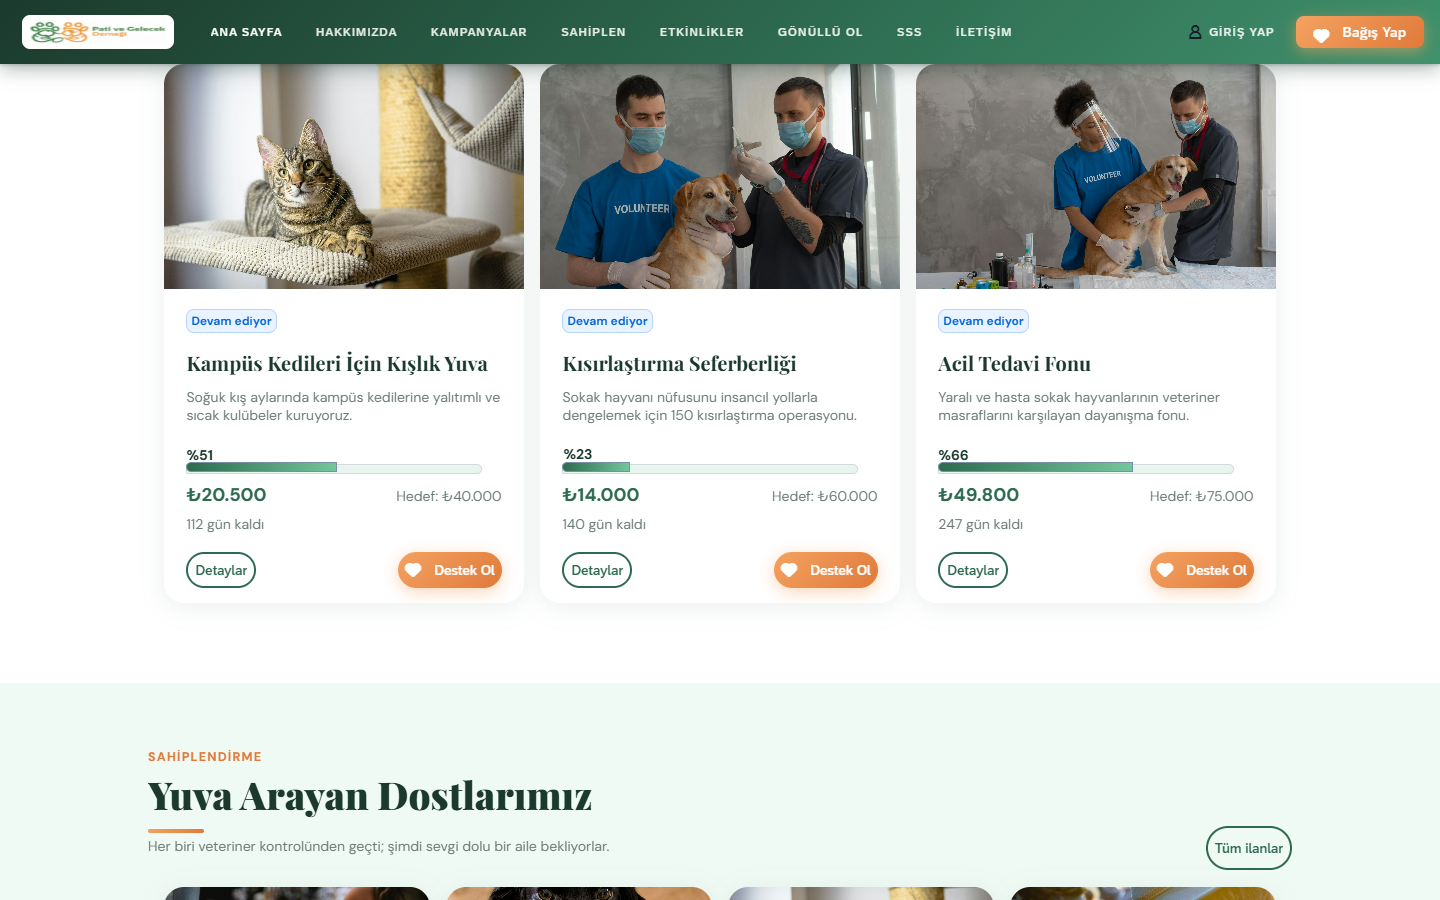
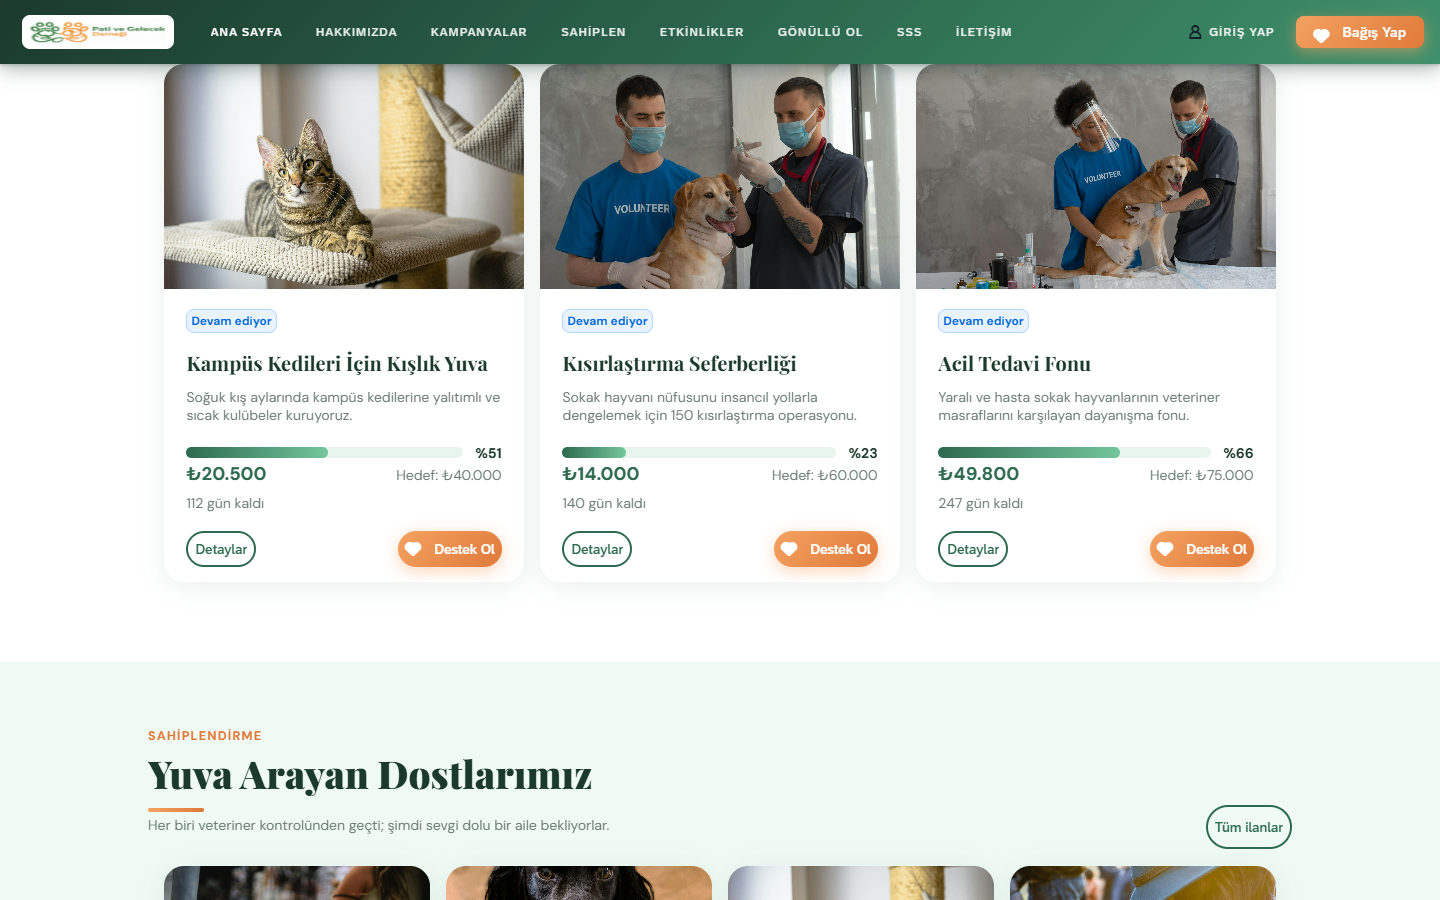
Faz 3a: özel kontrol ProgressMeter
- control/ProgressMeter.js: metadata, renderer (apiVersion 2), animasyon,
  ARIA progressbar, dile göre yüzde metni
- Kampanya kartı/detayı ve etkinlik doluluğunda ProgressIndicator yerine;
  tema iç sınıflarını ezen CSS kaldırıldı, kullanılmayan percent formatter'ları silindi
- Birim testleri (QUnit 29), dokümanlar ve ekran görüntüleri

diff --git a/app/site/webapp/control/ProgressMeter.js b/app/site/webapp/control/ProgressMeter.js
@@ -1,0 +1,128 @@
+sap.ui.define([
+    "sap/ui/core/Control",
+    "sap/ui/core/library",
+    "sap/ui/core/format/NumberFormat"
+], function (Control, coreLibrary, NumberFormat) {
+    "use strict";
+
+    var ValueState = coreLibrary.ValueState;
+
+    /**
+     * ProgressMeter — projenin kendi (custom) kontrolü.
+     *
+     * Bir değerin bir üst sınıra oranını yuvarlak uçlu, marka renklerinde bir çubukla gösterir
+     * (kampanyada toplanan / hedef, etkinlikte kayıtlı / kontenjan).
+     *
+     * Öğrenme noktaları:
+     *  - metadata: özellikler (property) ve tipleri; XML'de <pg:ProgressMeter value="..."/> diye kullanılır
+     *  - renderer (apiVersion 2): HTML'i RenderManager ile yazmak; UI5 yalnızca değişen kısmı günceller
+     *  - yaşam döngüsü: onBeforeRendering / onAfterRendering ile animasyon
+     *  - erişilebilirlik: role="progressbar" ve aria-value* öznitelikleri
+     *  - yerelleştirme: yüzde metni NumberFormat ile dile göre ("%54" / "54%")
+     *
+     * Hazır sap.m.ProgressIndicator yerine bunu yazmamızın nedeni: tema iç sınıflarını
+     * (.sapMPIBar...) CSS ile ezmek kırılgandır; kendi kontrolümüzde HTML ve sınıflar bize aittir.
+     */
+    var ProgressMeter = Control.extend("pg.site.control.ProgressMeter", {
+        metadata: {
+            properties: {
+                /** Şu anki değer (ör. toplanan tutar) */
+                value: { type: "float", defaultValue: 0 },
+                /** Üst sınır (ör. hedef tutar). 0 ya da boşsa yüzde 0 kabul edilir. */
+                max: { type: "float", defaultValue: 100 },
+                /** Çubuğun yanında gösterilecek metin; boşsa yüzde yazılır. */
+                valueText: { type: "string", defaultValue: "" },
+                /** Ekran okuyucu için açıklama (ör. "Kampanya ilerlemesi") */
+                label: { type: "string", defaultValue: "" },
+                /** Renk: None = marka yeşili, Warning = turuncu, Error = kırmızı, Success = koyu yeşil */
+                state: { type: "sap.ui.core.ValueState", defaultValue: ValueState.None },
+                /** Metin gösterilsin mi? */
+                showText: { type: "boolean", defaultValue: true }
+            }
+        },
+
+        renderer: {
+            apiVersion: 2,
+
+            /**
+             * @param {sap.ui.core.RenderManager} oRm HTML yazıcısı
+             * @param {pg.site.control.ProgressMeter} oControl çizilecek kontrol
+             */
+            render: function (oRm, oControl) {
+                var fPercent = oControl.getPercent();
+                var sState = oControl.getState();
+
+                oRm.openStart("div", oControl);
+                oRm.class("pgMeter");
+                if (sState !== ValueState.None) {
+                    oRm.class("pgMeter" + sState);
+                }
+                oRm.attr("role", "progressbar");
+                oRm.attr("aria-valuemin", "0");
+                oRm.attr("aria-valuemax", "100");
+                oRm.attr("aria-valuenow", String(Math.round(fPercent)));
+                oRm.attr("aria-valuetext", oControl.getDisplayText());
+                if (oControl.getLabel()) {
+                    oRm.attr("aria-label", oControl.getLabel());
+                }
+                oRm.openEnd();
+
+                oRm.openStart("div").class("pgMeterTrack").openEnd();
+                // Önce eski genişlikle çizilir; onAfterRendering yeni genişliğe kaydırır (CSS transition)
+                oRm.openStart("div", oControl.getId() + "-fill")
+                    .class("pgMeterFill")
+                    .style("width", oControl._fRenderedPercent + "%")
+                    .openEnd()
+                    .close("div");
+                oRm.close("div");
+
+                if (oControl.getShowText()) {
+                    oRm.openStart("span").class("pgMeterText").openEnd();
+                    oRm.text(oControl.getDisplayText());
+                    oRm.close("span");
+                }
+
+                oRm.close("div");
+            }
+        },
+
+        init: function () {
+            // Animasyon ilk açılışta 0'dan başlar, sonraki değişikliklerde önceki değerden
+            this._fRenderedPercent = 0;
+        },
+
+        onAfterRendering: function () {
+            var oFill = this.getDomRef("fill");
+            var fPercent = this.getPercent();
+            if (!oFill) {
+                return;
+            }
+            // Bir sonraki karede genişliği değiştir ki tarayıcı geçişi (transition) oynatsın
+            window.requestAnimationFrame(function () {
+                oFill.style.width = fPercent + "%";
+            });
+            this._fRenderedPercent = fPercent;
+        },
+
+        /** @returns {number} 0–100 arasında yüzde */
+        getPercent: function () {
+            var fMax = this.getMax();
+            if (!(fMax > 0)) {
+                return 0;
+            }
+            return Math.max(0, Math.min(100, this.getValue() / fMax * 100));
+        },
+
+        /** @returns {string} valueText ya da dile göre biçimlenmiş yüzde */
+        getDisplayText: function () {
+            return this.getValueText() || ProgressMeter.formatPercent(this.getPercent());
+        }
+    });
+
+    /** "%54" (tr) / "54%" (en) — NumberFormat oranı (0.54) bekler */
+    ProgressMeter.formatPercent = function (fPercent) {
+        return NumberFormat.getPercentInstance({ maxFractionDigits: 0 }).format(Math.round(fPercent) / 100);
+    };
+
+    return ProgressMeter;
+});

diff --git a/app/site/webapp/test/unit/control/ProgressMeter.js b/app/site/webapp/test/unit/control/ProgressMeter.js
@@ -1,0 +1,61 @@
+sap.ui.define([
+    "pg/site/control/ProgressMeter",
+    "sap/ui/qunit/utils/nextUIUpdate"
+], function (ProgressMeter, nextUIUpdate) {
+    "use strict";
+
+    var oMeter;
+
+    QUnit.module("ProgressMeter (özel kontrol)", {
+        afterEach: function () {
+            if (oMeter) {
+                oMeter.destroy();
+                oMeter = null;
+            }
+        }
+    });
+
+    QUnit.test("getPercent: oran 0–100 aralığına sıkıştırılır", function (assert) {
+        oMeter = new ProgressMeter({ value: 20250, max: 40000 });
+        assert.strictEqual(Math.round(oMeter.getPercent()), 51);
+        oMeter.setValue(50000);
+        assert.strictEqual(oMeter.getPercent(), 100, "hedef aşılsa da en fazla 100");
+        oMeter.setMax(0);
+        assert.strictEqual(oMeter.getPercent(), 0, "üst sınır 0 ise 0 (sıfıra bölme yok)");
+    });
+
+    QUnit.test("getDisplayText: valueText yoksa dile göre yüzde (Türkçe: %25)", function (assert) {
+        oMeter = new ProgressMeter({ value: 1, max: 4 });
+        assert.strictEqual(oMeter.getDisplayText(), "%25");
+        oMeter.setValueText("3 / 60 kişi");
+        assert.strictEqual(oMeter.getDisplayText(), "3 / 60 kişi");
+    });
+
+    QUnit.test("render: erişilebilirlik öznitelikleri ve renk sınıfı", async function (assert) {
+        oMeter = new ProgressMeter({ value: 30, max: 40, label: "Kampanya ilerlemesi", state: "Warning" });
+        oMeter.placeAt("qunit-fixture");
+        await nextUIUpdate();
+
+        var oDom = oMeter.getDomRef();
+        assert.strictEqual(oDom.getAttribute("role"), "progressbar");
+        assert.strictEqual(oDom.getAttribute("aria-valuenow"), "75");
+        assert.strictEqual(oDom.getAttribute("aria-valuetext"), "%75");
+        assert.strictEqual(oDom.getAttribute("aria-label"), "Kampanya ilerlemesi");
+        assert.ok(oDom.classList.contains("pgMeterWarning"), "Warning durumu turuncu sınıfı ekler");
+        assert.strictEqual(oDom.querySelector(".pgMeterText").textContent, "%75");
+    });
+
+    QUnit.test("değer değişince yeniden çizilir; çubuk yeni genişliğe kayar", async function (assert) {
+        oMeter = new ProgressMeter({ value: 10, max: 100 });
+        oMeter.placeAt("qunit-fixture");
+        await nextUIUpdate();
+
+        oMeter.setValue(60);
+        await nextUIUpdate();
+        await new Promise(function (resolve) {
+            window.requestAnimationFrame(resolve);
+        });
+        assert.strictEqual(oMeter.getDomRef("fill").style.width, "60%");
+        assert.strictEqual(oMeter.getDomRef().getAttribute("aria-valuenow"), "60");
+    });
+});

diff --git a/app/site/webapp/css/style.css b/app/site/webapp/css/style.css
@@ -533,39 +533,44 @@ html:root {
 }
 
 /*
- * İlerleme çubuğu. Horizon'da yapı: .sapMPI > .sapMPIBar (dolu kısım) + .sapMPIBarRemaining (kalan kısım,
- * sonunda ::after ile çizilen bir nokta). Kalan kısmı açık yeşil, dolu kısmı yeşil gradyan yapıyoruz.
+ * İlerleme çubuğu — projenin kendi kontrolü (control/ProgressMeter.js).
+ * HTML'i biz yazdığımız için tema iç sınıflarını ezmemize gerek yok.
  */
-.pgPage .sapMPI {
-    background: transparent;
-    border: none;
+.pgMeter {
+    display: flex;
+    align-items: center;
+    gap: .75rem;
+    width: 100%;
 }
 
-.pgPage .sapMPI .sapMPIBar {
+.pgMeterTrack {
+    flex: 1;
     height: .65rem;
-    border-radius: var(--radius-pill) 0 0 var(--radius-pill);
-    background: linear-gradient(90deg, var(--clr-primary), var(--clr-primary-light));
-}
-
-.pgPage .sapMPI .sapMPIBarRemaining {
-    height: .65rem;
-    border-radius: 0 var(--radius-pill) var(--radius-pill) 0;
-    background: var(--clr-green-soft);
-}
-
-.pgPage .sapMPI .sapMPIBarRemaining::after {
-    display: none;
-}
-
-/* Hedefe ulaşıldıysa dolu kısım tam yuvarlak */
-.pgPage .sapMPI.sapMPIValueMax .sapMPIBar {
     border-radius: var(--radius-pill);
+    background: var(--clr-green-soft);
+    overflow: hidden;
 }
 
-.pgPage .sapMPI .sapMPITextLeft,
-.pgPage .sapMPI .sapMPITextRight {
+.pgMeterFill {
+    height: 100%;
+    border-radius: inherit;
+    background: linear-gradient(90deg, var(--clr-primary), var(--clr-primary-light));
+    transition: width .9s cubic-bezier(.25, .8, .25, 1);
+}
+
+.pgMeterSuccess .pgMeterFill { background: var(--clr-primary-dark); }
+.pgMeterWarning .pgMeterFill { background: linear-gradient(90deg, var(--clr-accent-hover), var(--clr-accent)); }
+.pgMeterError .pgMeterFill   { background: var(--sapNegativeColor, #b00); }
+
+.pgMeterText {
+    flex: 0 0 auto;
     font-weight: 700;
     color: var(--clr-primary-dark);
+    font-variant-numeric: tabular-nums;
+}
+
+@media (prefers-reduced-motion: reduce) {
+    .pgMeterFill { transition: none; }
 }
 
 /* ── Sahiplendirme: hayvan kartı, filtre çubuğu, karusel ── */

diff --git a/app/site/webapp/test/unit/model/formatter.js b/app/site/webapp/test/unit/model/formatter.js
@@ -19,17 +19,6 @@ sap.ui.define([
 
     QUnit.module("formatter — sayılar");
 
-    QUnit.test("percent: toplanan / hedef yüzdesi, 0–100 aralığında", function (assert) {
-        assert.strictEqual(formatter.percent("20250.00", "40000.00"), 51, "OData Decimal metinleri sayıya çevrilir");
-        assert.strictEqual(formatter.percent(30500, 30000), 100, "hedef aşılsa da en fazla 100");
-        assert.strictEqual(formatter.percent(500, 0), 0, "hedef 0 ise 0 (sıfıra bölme yok)");
-        assert.strictEqual(formatter.percent(null, undefined), 0, "boş değerler 0");
-    });
-
-    QUnit.test("percentText: Türkçede yüzde işareti başta", function (assert) {
-        assert.strictEqual(formatter.percentText(1, 4), "%25");
-    });
-
     QUnit.test("currency ve integer: binlik ayırıcı nokta", function (assert) {
         assert.ok(formatter.currency("20250.00").indexOf("20.250") >= 0, "20.250 içerir: " + formatter.currency("20250.00"));
         assert.ok(formatter.currency(100).indexOf("₺") >= 0, "TL simgesi içerir");

diff --git a/app/site/webapp/model/formatter.js b/app/site/webapp/model/formatter.js
@@ -31,20 +31,6 @@ sap.ui.define([
             return oInteger.format(toNumber(vValue));
         },
 
-        /** Toplanan / hedef → 0–100 arası tam sayı (ProgressIndicator için) */
-        percent: function (vRaised, vGoal) {
-            var nGoal = toNumber(vGoal);
-            if (nGoal <= 0) {
-                return 0;
-            }
-            return Math.min(100, Math.round(toNumber(vRaised) / nGoal * 100));
-        },
-
-        /** "%54" (Türkçede yüzde işareti sayının önüne yazılır) */
-        percentText: function (vRaised, vGoal) {
-            return "%" + formatter.percent(vRaised, vGoal);
-        },
-
         /** ("Hedef", 40000) → "Hedef: 40.000 ₺" */
         labelCurrency: function (sLabel, vAmount) {
             return sLabel + ": " + formatter.currency(vAmount);

diff --git a/app/site/webapp/test/testsuite.qunit.js b/app/site/webapp/test/testsuite.qunit.js
@@ -33,7 +33,7 @@ sap.ui.define(function () {
         },
         tests: {
             "unit/unitTests": {
-                title: "Birim testleri (formatter, doğrulama)"
+                title: "Birim testleri (formatter, doğrulama, özel kontrol)"
             },
             "integration/opaTests": {
                 title: "Entegrasyon testleri (OPA5) — CAP sunucusu açık olmalı",

diff --git a/app/site/webapp/test/unit/unitTests.qunit.js b/app/site/webapp/test/unit/unitTests.qunit.js
@@ -1,5 +1,6 @@
 // Birim testleri — Test Starter bu modülü yükler ve QUnit'i kendisi başlatır.
 sap.ui.define([
     "./model/formatter",
-    "./model/validation"
+    "./model/validation",
+    "./control/ProgressMeter"
 ]);

diff --git a/README.md b/README.md
@@ -84,6 +84,8 @@ Veriler bellekte tutulur: sunucu her yeniden başladığında demo verisine dön
 | SSS | Gruplanmış liste (`sorter.group`), `Panel` |
 | Hakkımızda, 404 | `sap.f.Card`, fotoğraf galerisi, `IllustratedMessage` |
 
+Özel kontrol: `control/ProgressMeter.js` — kampanya ve etkinlik doluluk çubuğu (metadata, renderer apiVersion 2, `onAfterRendering` animasyonu, ARIA `progressbar`, dile göre yüzde).
+
 Ortak yapı: `sap.tnt.ToolPage` + `NavContainer` + router, telefon menüsü (`ActionSheet`), i18n, formatter'lar, `BaseController`.
 Tasarım: SAP tema değişkenleri (`--sap…`) ezilerek marka renkleri ve yazı tipleri (Playfair Display, DM Sans) uygulanır.
 
